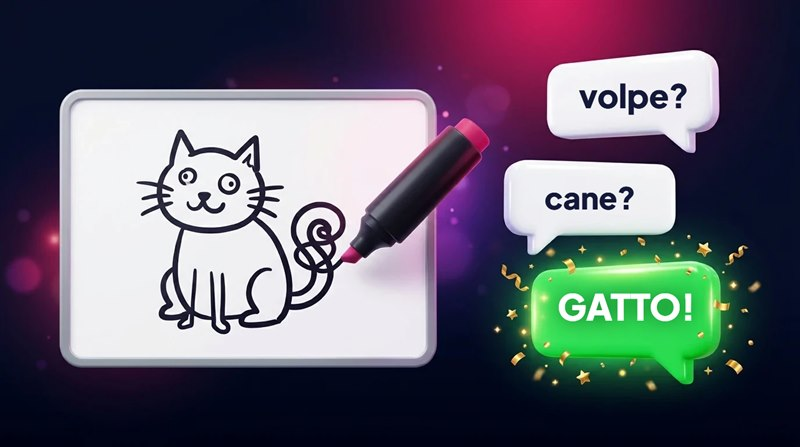
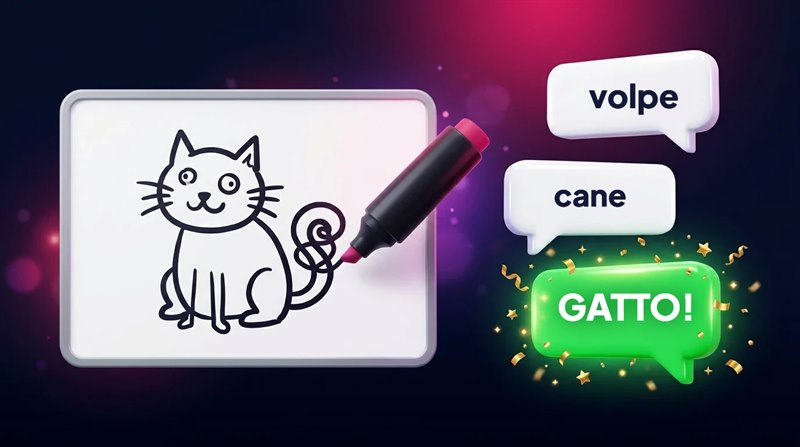
Scarabocchio: nella chat della copertina «volpe» e «cane», scritti come si scrive davvero (senza punto interrogativo).

Changed region(s): [[0.7188, 0.1745, 0.875, 0.2617], [0.6562, 0.4072, 0.8125, 0.4944]]

diff --git a/data/novita.js b/data/novita.js
@@ -13,7 +13,7 @@ window.SG_NOVITA = [
     data: "27 novembre 2026",
     titolo: "Scarabocchio ha la copertina nuova ✏",
     descrizione: [
-      "✏ Nella prima schermata Scarabocchio ha un'immagine nuova: un gatto disegnato male sulla lavagna e la chat degli amici che provano a indovinare, «volpe?», «cane?»… «GATTO!». Così si capisce subito a cosa si gioca."
+      "✏ Nella prima schermata Scarabocchio ha un'immagine nuova: un gatto disegnato male sulla lavagna e la chat degli amici che provano a indovinare, «volpe», «cane»… «GATTO!». Così si capisce subito a cosa si gioca."
     ]
   },
   {
